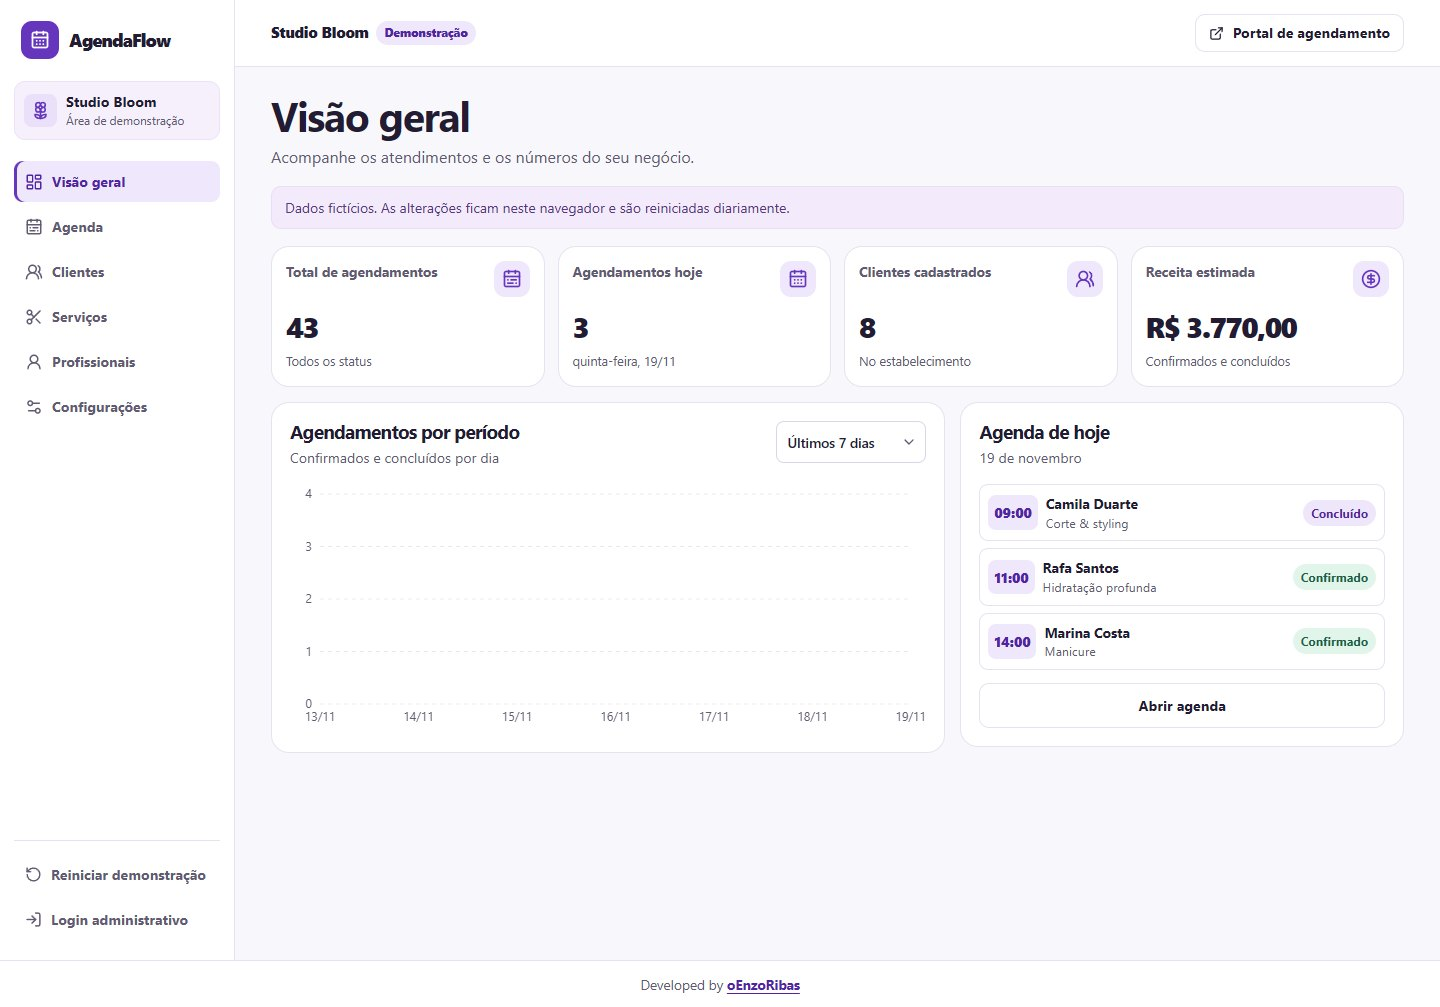
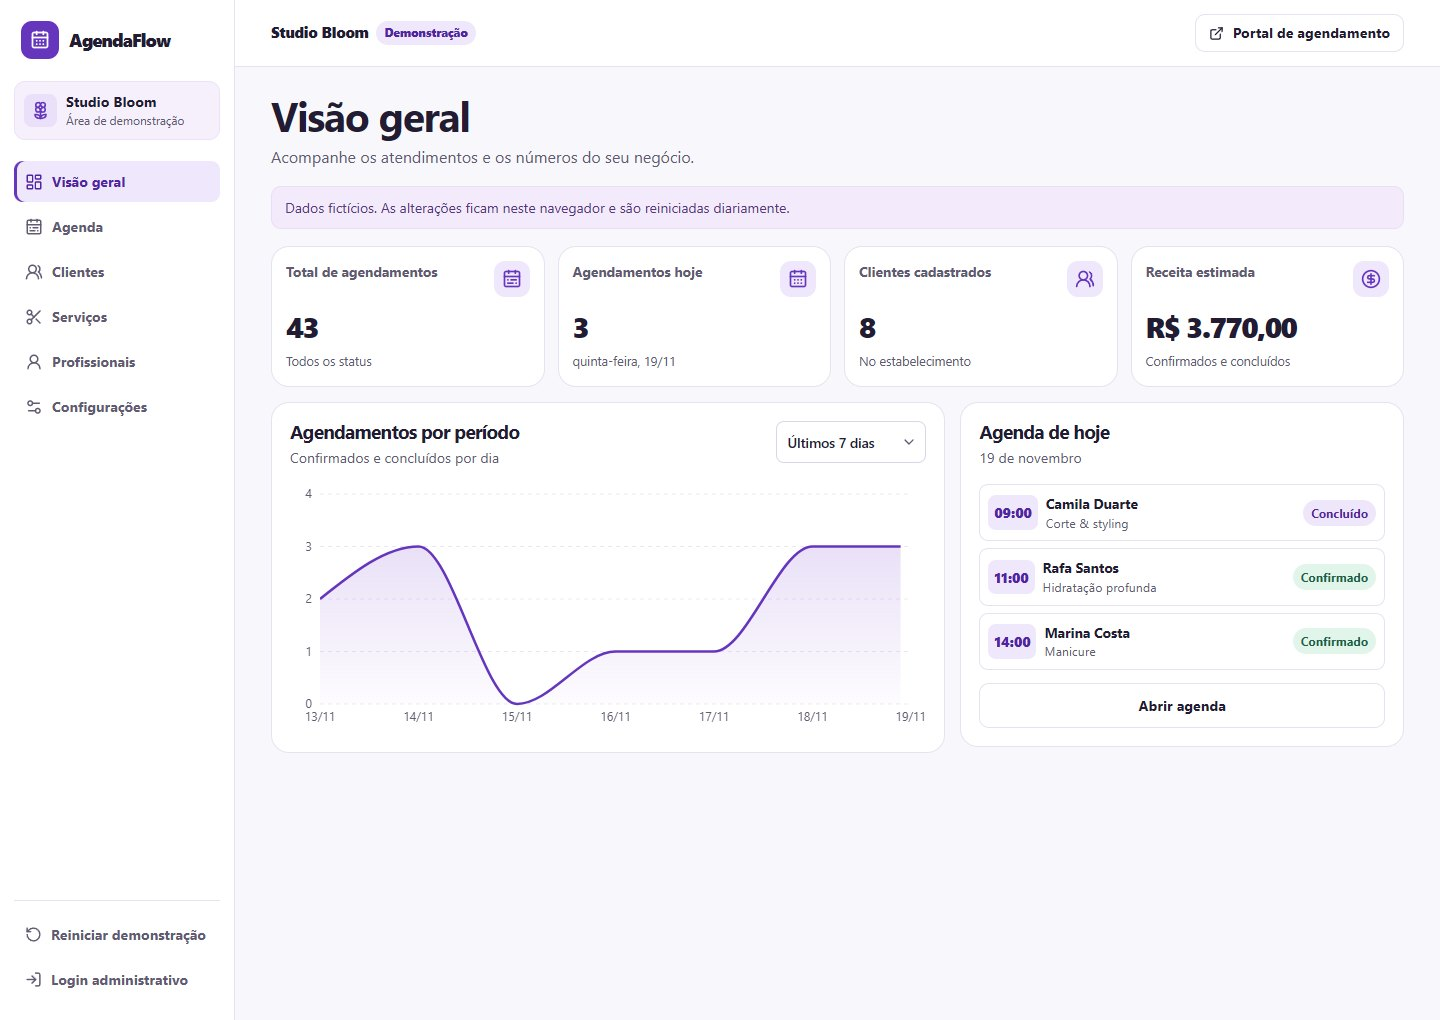
fix: make the release lockfile portable across platforms

diff --git a/docs/screenshots/README.md b/docs/screenshots/README.md
@@ -12,6 +12,6 @@ Capturas geradas no AgendaFlow em execução local. Os dados, o salão e os perf
 | [Horários mobile](horarios-mobile.jpg) | `/agendar`, serviço e profissional escolhidos |
 | [Confirmação mobile](confirmacao-mobile.jpg) | `/agendar`, após reservar com um perfil fictício |
 
-Desktop capturado em viewport de 1440 × 960. As capturas de página inteira podem ter altura maior. O rodapé inclui a autoria em cada rota.
+Desktop capturado em viewport de 1440 × 960, com 1440 × 1020 para o painel. As capturas de página inteira podem ter altura maior. O rodapé inclui a autoria em cada rota.
 
 Para atualizar a galeria, inicie a demonstração sem variáveis Supabase, abra um contexto limpo do navegador, use os tamanhos indicados e percorra os estados da tabela. Aguarde carregar o catálogo e concluir a animação inicial do gráfico. Salve as imagens como JPEG, mantendo nomes e textos alternativos usados no README.
